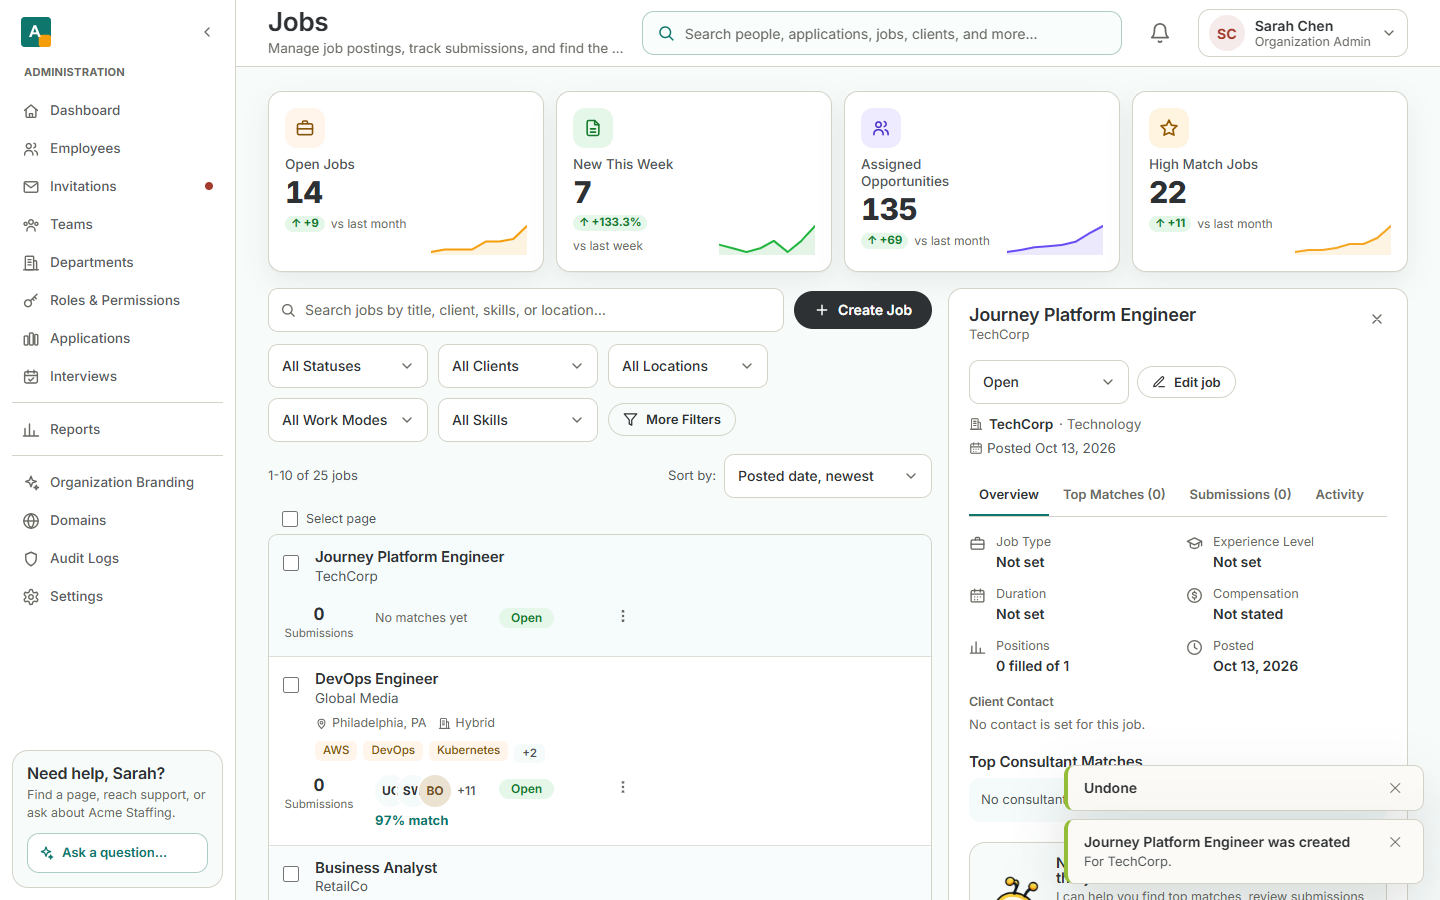
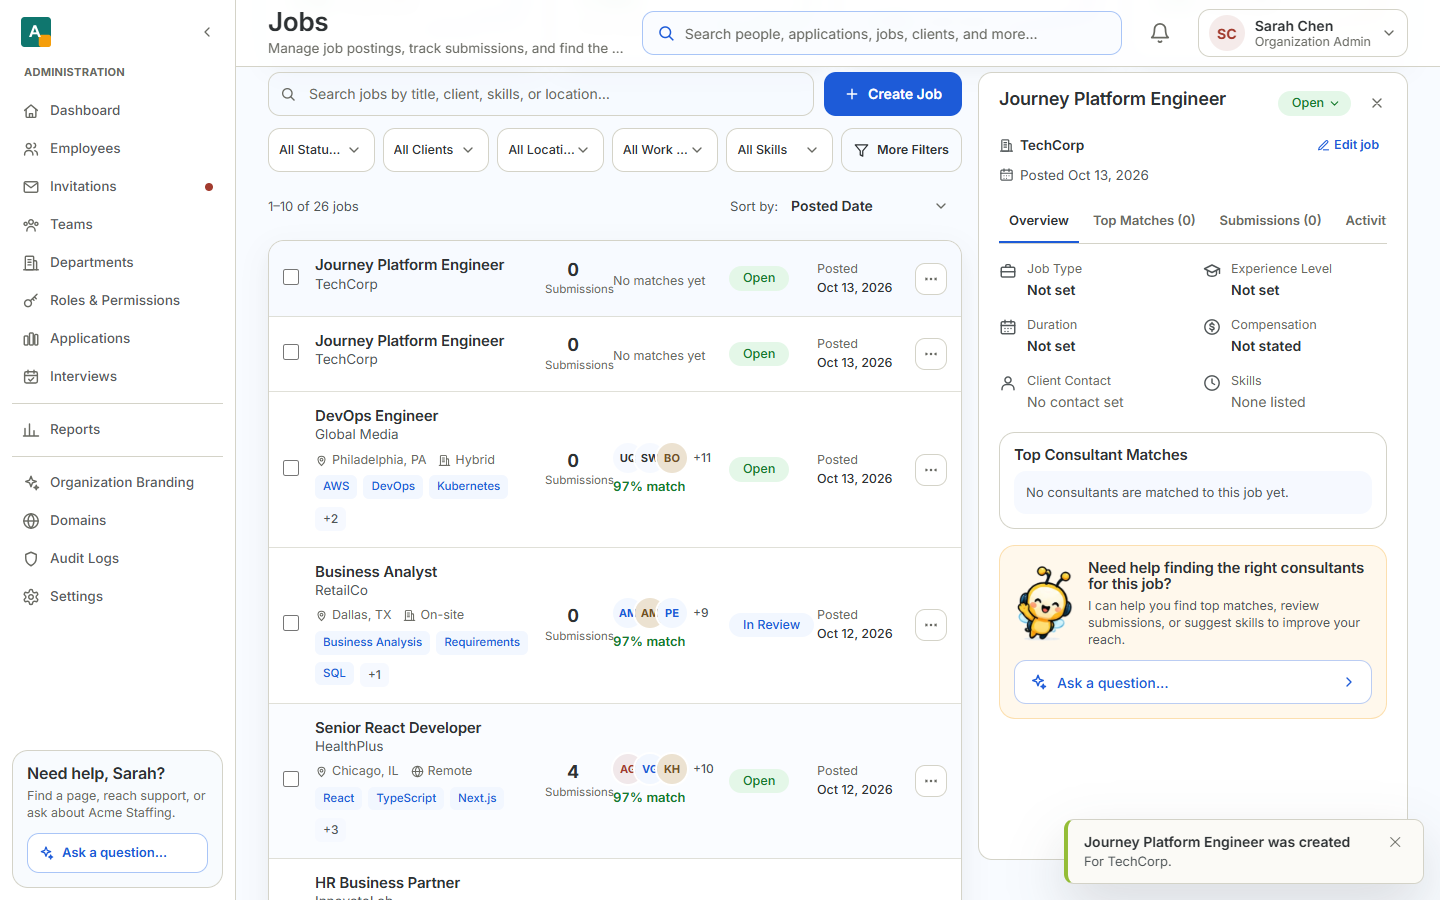
ent-jobs: polish round 3 (submissions column, tabs), journey re-runnable, screenshots

diff --git a/web/src/components/ent/jobs/JobsList.tsx b/web/src/components/ent/jobs/JobsList.tsx
@@ -48,7 +48,7 @@ export function JobsList({ rows, selected, onToggle, onTogglePage, openId, onOpe
                   onOpen(r);
                 }
               }}
-              className={`flex cursor-pointer flex-wrap items-center gap-x-3 gap-y-3 px-3.5 py-4 focus-visible:outline-2 focus-visible:-outline-offset-2 focus-visible:outline-accent lg:grid lg:grid-cols-[20px_minmax(0,1fr)_56px_104px_76px_84px_34px] ${open || selected.has(r.id) ? "bg-accent-soft/60" : "hover:bg-paper-2/50"}`}
+              className={`flex cursor-pointer flex-wrap items-center gap-x-2.5 gap-y-3 px-3 py-4 focus-visible:outline-2 focus-visible:-outline-offset-2 focus-visible:outline-accent lg:grid lg:grid-cols-[20px_minmax(0,1fr)_68px_92px_76px_80px_34px] ${open || selected.has(r.id) ? "bg-accent-soft/60" : "hover:bg-paper-2/50"}`}
             >
               <div>
                 <Check checked={selected.has(r.id)} onChange={() => onToggle(r.id)} label={`Select ${r.title} at ${r.client.name}`} />
@@ -76,7 +76,7 @@ export function JobsList({ rows, selected, onToggle, onTogglePage, openId, onOpe
               </div>
               <div className="text-center" data-submissions>
                 <p className="text-[18px] font-bold leading-tight text-ink tabular-nums">{r.submissions}</p>
-                <p className="text-[11.5px] text-muted">{r.submissions === 1 ? "Submission" : "Submissions"}</p>
+                <p className="text-[11px] text-muted">{r.submissions === 1 ? "Submission" : "Submissions"}</p>
               </div>
               <div>
                 <MatchStack matches={r.matches} />

diff --git a/web/src/components/ent/jobs/JobDrawer.tsx b/web/src/components/ent/jobs/JobDrawer.tsx
@@ -410,10 +410,10 @@ export default function JobDrawer(p: JobDrawerProps) {
         </div>
         <Tabs value={p.tab} onValueChange={(v) => p.onTab(v as DrawerTab)} variant="underline" className="mt-4">
           <TabList aria-label="Job details">
-            <Tab value="overview" className="!px-2.5 !text-[13px]">Overview</Tab>
-            <Tab value="matches" className="!px-2.5 !text-[13px]">Top Matches ({d.topMatches.filter((m) => m.status !== "DISMISSED").length})</Tab>
-            <Tab value="submissions" className="!px-2.5 !text-[13px]">Submissions ({d.submissionCount})</Tab>
-            <Tab value="activity" className="!px-2.5 !text-[13px]">Activity</Tab>
+            <Tab value="overview" className="!px-2 !text-[12.5px]">Overview</Tab>
+            <Tab value="matches" className="!px-2 !text-[12.5px]">Top Matches ({d.topMatches.filter((m) => m.status !== "DISMISSED").length})</Tab>
+            <Tab value="submissions" className="!px-2 !text-[12.5px]">Submissions ({d.submissionCount})</Tab>
+            <Tab value="activity" className="!px-2 !text-[12.5px]">Activity</Tab>
           </TabList>
           <TabPanel value="overview" className="pt-4">
             <Overview orgId={p.orgId} d={d} replace={replaceAndNotify} onChanged={p.onChanged} onTab={p.onTab} save={save} contacts={contacts} editing={editing} />
